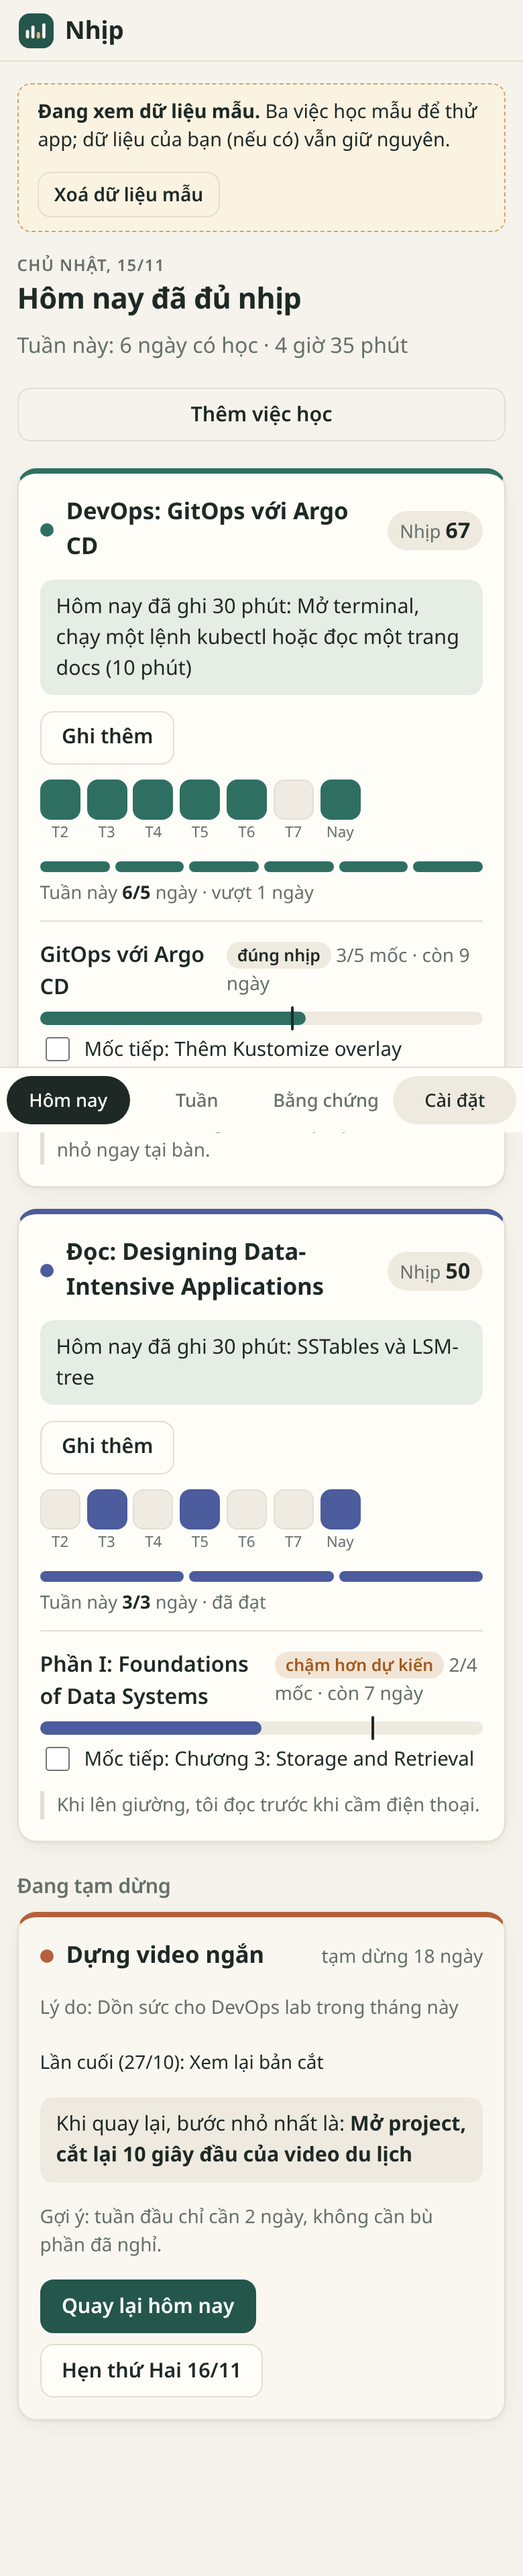
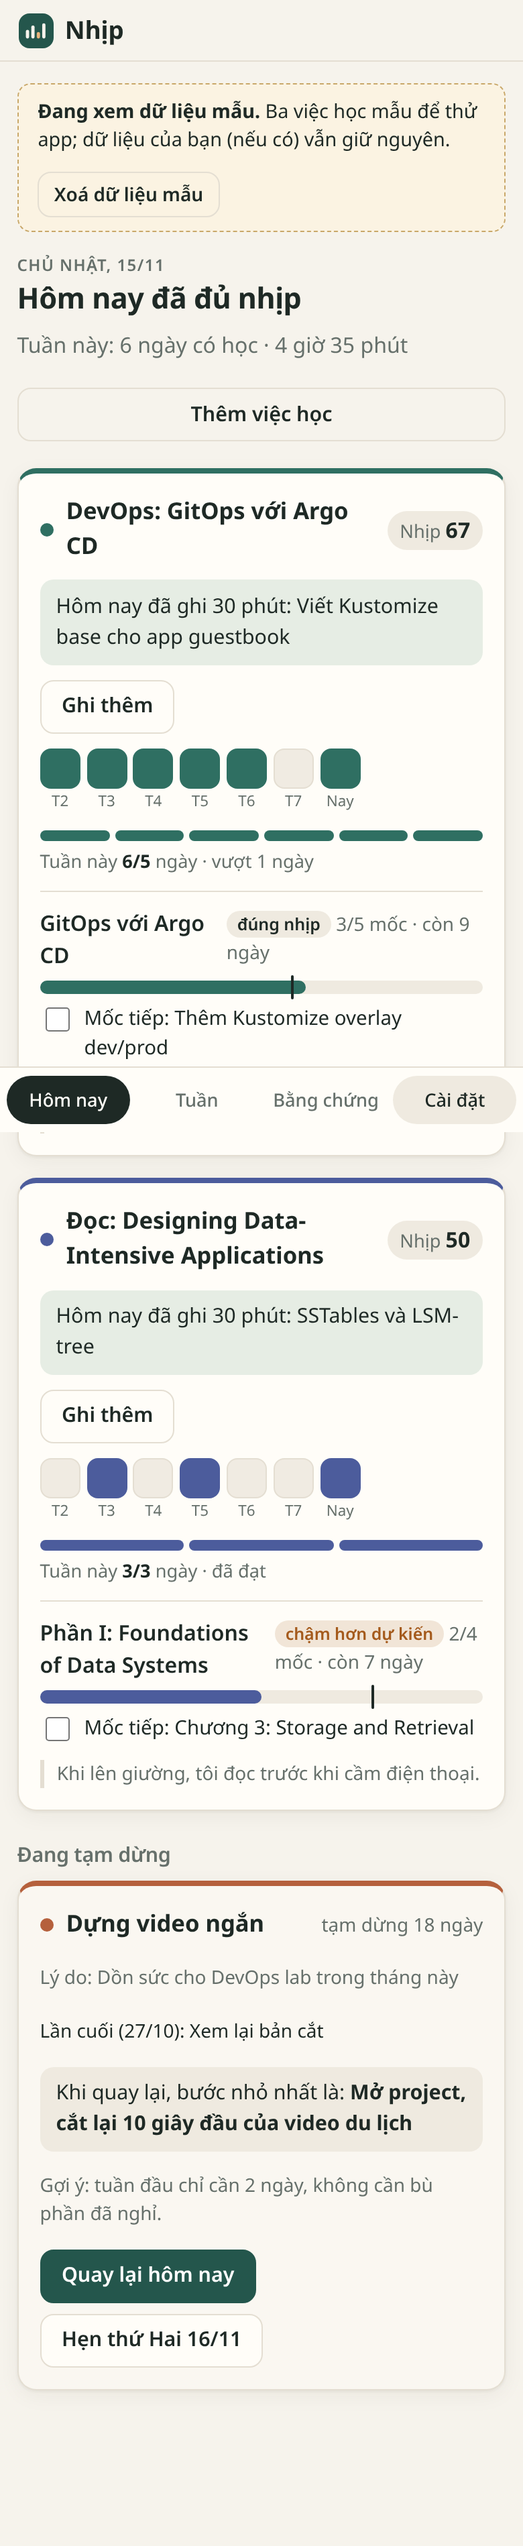
fix: show latest note for today and list archived tracks in settings

Changed region(s): [[0.0, 0.0311, 0.9538, 0.9326], [0.4308, 0.0311, 0.7077, 0.0622], [0.7385, 0.0311, 0.8615, 0.0622]]

diff --git a/src/views/other.ts b/src/views/other.ts
@@ -106,6 +106,10 @@ export function settingsView(): View {
     <div class="row gap wrap"><button class="btn primary" data-act="export">Tải bản sao lưu (JSON)</button><label class="btn file-btn">Khôi phục từ file<input type="file" accept="application/json,.json" data-act="import" hidden></label></div>
     <p class="small muted">Khôi phục sẽ thay toàn bộ dữ liệu hiện tại bằng dữ liệu trong file.</p>
   </section>
+  ${state.tracks.some((t) => t.archived) ? `<section class="card">
+    <h2>Đã lưu trữ</h2>
+    <ul class="past">${state.tracks.filter((t) => t.archived).map((t) => `<li class="row between">${colorDot(t)}<a href="#/t/${t.id}" class="grow">${esc(t.name)}</a><button class="btn small" data-act="archive" data-id="${t.id}">Hiện lại</button></li>`).join('')}</ul>
+  </section>` : ''}
   <section class="card">
     <h2>Ngày bận</h2>
     <label class="field"><span>Số ngày bận được bảo vệ mỗi tháng, cho mỗi việc học</span><div class="row gap"><input type="number" min="0" max="10" value="${state.settings.busyPerMonth}" class="num" data-act="busy-limit"><span class="muted">ngày</span></div></label>

diff --git a/src/views/today.ts b/src/views/today.ts
@@ -65,7 +65,7 @@ function emptyView(): string {
 function stateLine(t: Track): string {
   const ctx = ctxFor(t);
   const st = todayState(ctx);
-  const todayLogs = state.logs.filter((l) => l.trackId === t.id && l.day === ctx.today);
+  const todayLogs = state.logs.filter((l) => l.trackId === t.id && l.day === ctx.today).sort((a, b) => (a.createdAt < b.createdAt ? 1 : -1));
   switch (st) {
     case 'done': {
       const min = todayLogs.reduce((a, l) => a + l.minutes, 0);
